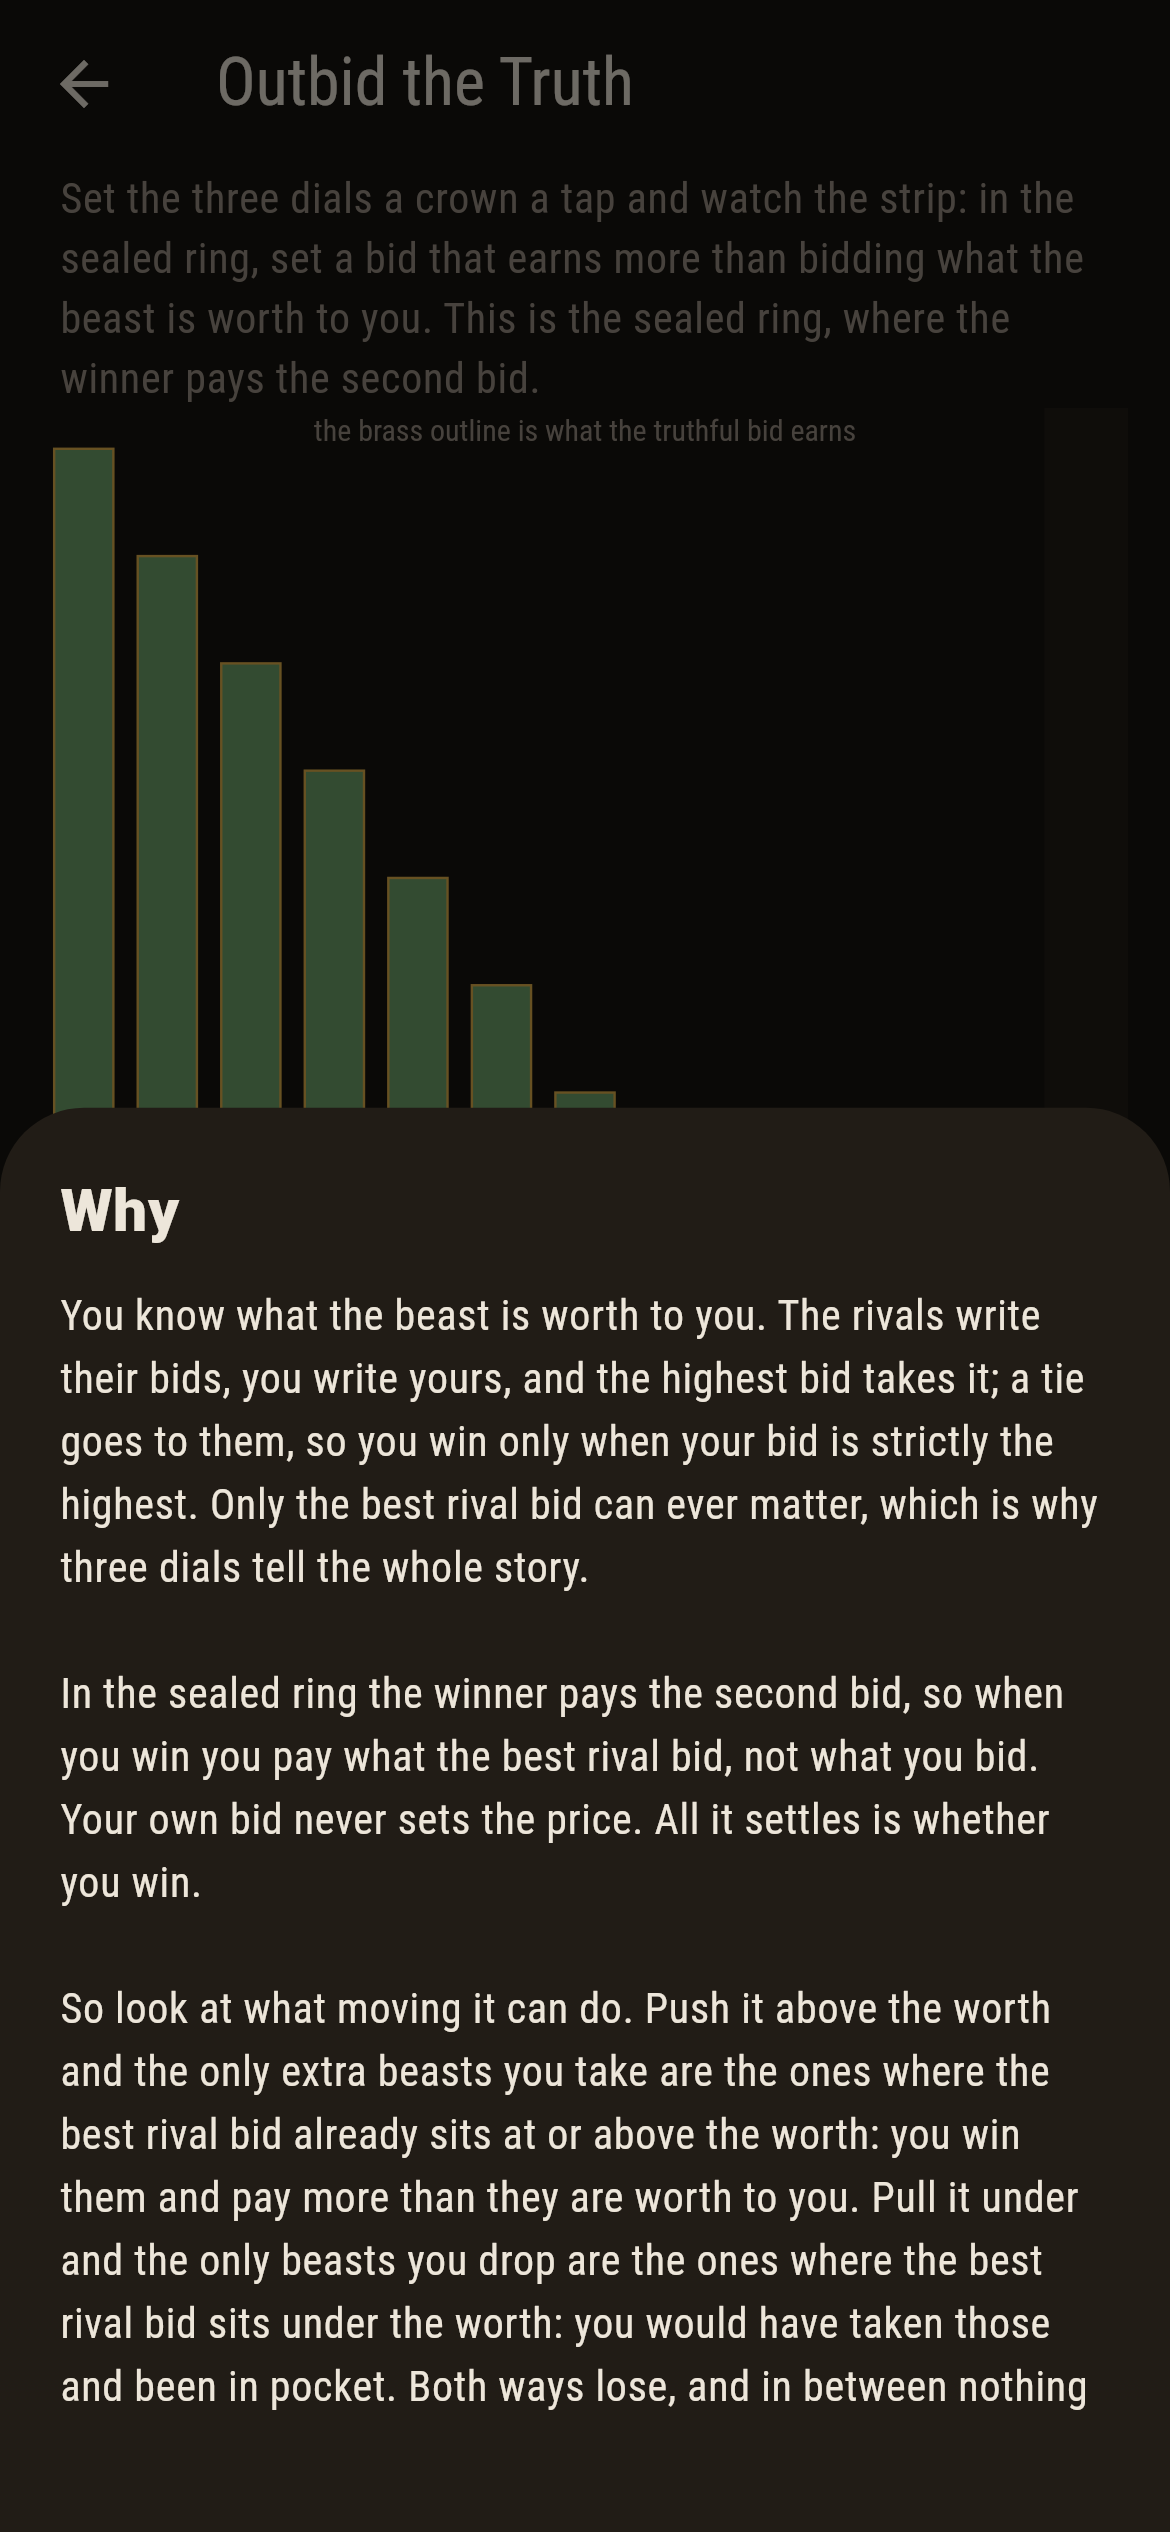
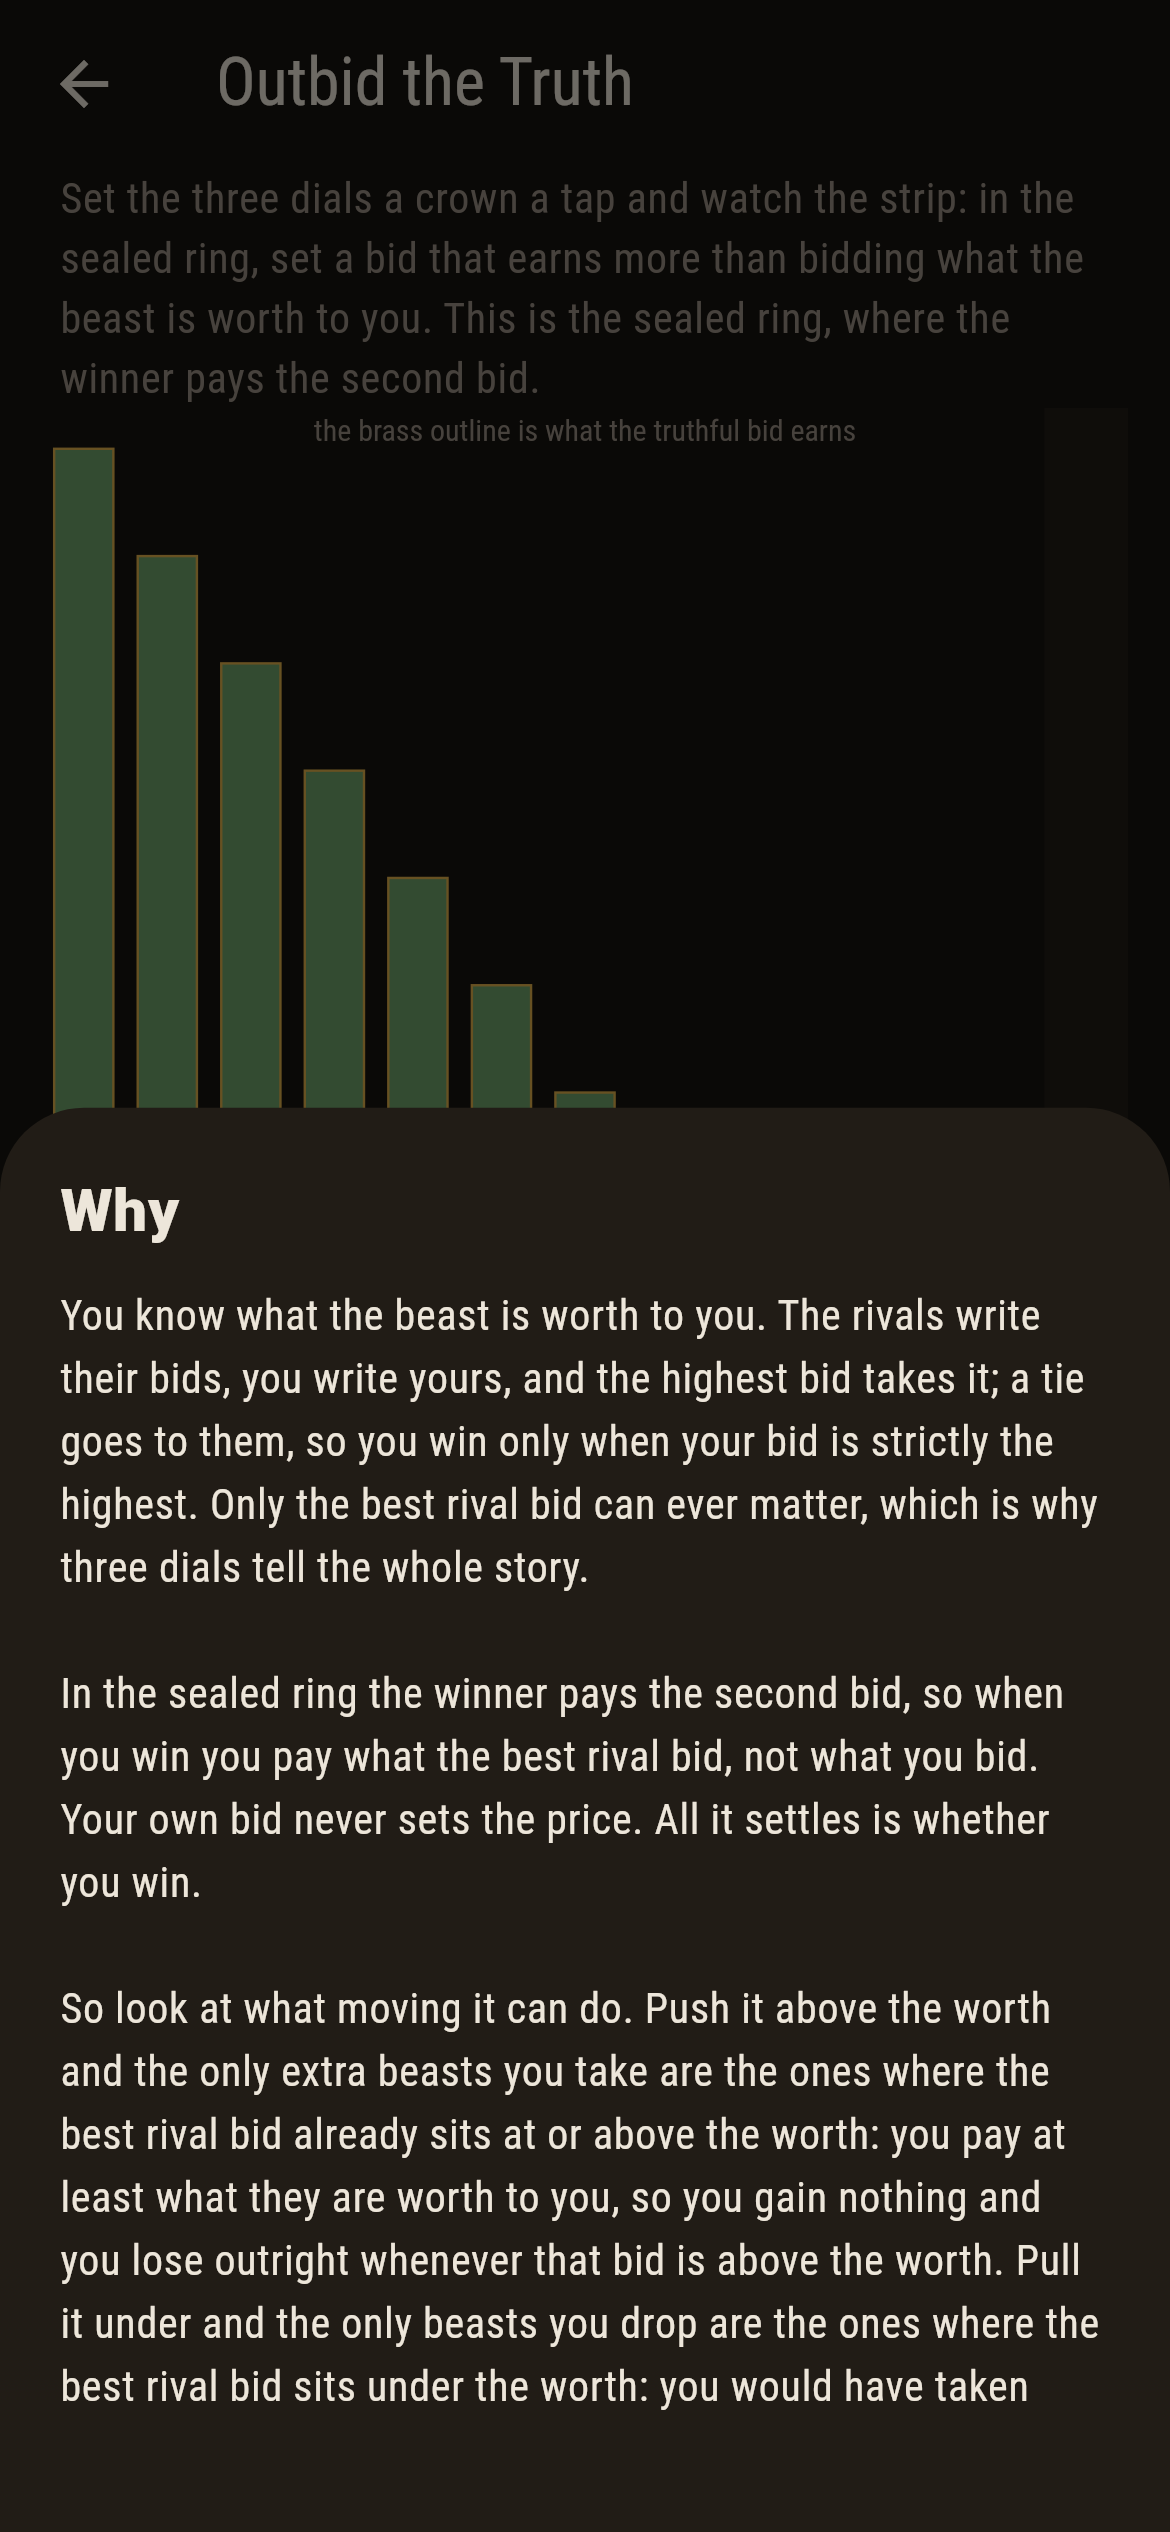
Lotwick: what the checkers found in the prose

Changed region(s): [[0.0615, 0.8424, 0.9231, 0.9672]]

diff --git a/Lotwick/lib/ring/play.dart b/Lotwick/lib/ring/play.dart
@@ -172,11 +172,12 @@ String whyWords(Play play) {
       'the price. All it settles is whether you win.\n\n'
       'So look at what moving it can do. Push it above the worth and the only '
       'extra beasts you take are the ones where the best rival bid already '
-      'sits at or above the worth: you win them and pay more than they are '
-      'worth to you. Pull it under and the only beasts you drop are the ones '
-      'where the best rival bid sits under the worth: you would have taken '
-      'those and been in pocket. Both ways lose, and in between nothing '
-      'changes at all. William Vickrey published this in 1961.\n\n'
+      'sits at or above the worth: you pay at least what they are worth to '
+      'you, so you gain nothing and you lose outright whenever that bid is '
+      'above the worth. Pull it under and the only beasts you drop are the '
+      'ones where the best rival bid sits under the worth: you would have '
+      'taken those and been in pocket. Neither way can gain, and in between '
+      'nothing changes at all. William Vickrey published this in 1961.\n\n'
       'The open ring is the other story. There the winner pays what he bid, '
       'so bidding the worth wins beasts that earn nothing, and shading under '
       'the worth is what pays. That is the ring the sealed one was invented '

diff --git a/Lotwick/lib/ui/result_card.dart b/Lotwick/lib/ui/result_card.dart
@@ -42,10 +42,10 @@ class ResultCard extends StatelessWidget {
       words = 'In the sealed ring your bid never sets the price. It settles '
           'only whether you win, and then you pay what the best rival bid. '
           'Push the bid above the worth and the only beasts it takes are the '
-          'ones already bid at or past their worth, bought at a loss; pull it '
-          'under and the only beasts it drops are the ones you would have '
-          'taken under their worth, a gain thrown away. In between nothing '
-          'changes. Here the bid of ${play.bid} earns '
+          'ones already bid at or past their worth, bought for at least what '
+          'they are worth; pull it under and the only beasts it drops are the '
+          'ones you would have taken under their worth, a gain thrown away. '
+          'In between nothing changes. Here the bid of ${play.bid} earns '
           '${Rules.tellCrowns(play.paid)} against a rival at ${play.rival}, '
           'and the truthful bid of ${play.worth} earns '
           '${Rules.tellCrowns(play.truthPaid)}. Every setting of the three '

diff --git a/Lotwick/lib/ring/levels.dart b/Lotwick/lib/ring/levels.dart
@@ -60,10 +60,11 @@ class Levels {
       note: 'Hopeless, and the card at the end of the ask says so. In the '
           'sealed ring your own bid never sets the price, only whether you '
           'win. Push it above the worth and the only beasts it wins for you '
-          'are ones already bid past their worth, bought at a loss. Pull it '
-          'under and the only beasts it loses you are ones you would have '
-          'taken under their worth, a gain thrown away. Both ways lose, so '
-          'the dial has nowhere better to sit than the worth. All 2,197 '
+          'are ones already bid at or past their worth, bought for at least '
+          'what they are worth. Pull it under and the only beasts it loses '
+          'you are ones you would have taken under their worth, a gain '
+          'thrown away. Neither way can gain, so the dial has nowhere better '
+          'to sit than the worth. All 2,197 '
           'settings of the three dials were run before the sham was built, '
           'and a million more besides.',
     ),

diff --git a/Lotwick/lib/ui/title_screen.dart b/Lotwick/lib/ui/title_screen.dart
@@ -73,7 +73,7 @@ class _TitleScreenState extends State<TitleScreen> {
                       ),
                       subtitle: Text(
                         '${level.task[0].toUpperCase()}${level.task.substring(1)}'
-                        '${fewest == null ? '' : '. Fewest: $fewest'}',
+                        '${!level.winnable ? '. Hopeless.' : fewest == null ? '' : '. Fewest: $fewest'}',
                         style: const TextStyle(
                             color: Palette.inkDim, fontSize: 13),
                       ),

diff --git a/Lotwick/README.md b/Lotwick/README.md
@@ -35,12 +35,13 @@ whether you win, and when you win you pay what the best rival bid.
 
 So there are only two things moving the bid can do. Push it above the
 worth and the extra beasts it takes are exactly the ones where the best
-rival bid already sits at or above the worth: you win them and pay more
-than they are worth to you. Pull it under the worth and the beasts it
+rival bid already sits at or above the worth: you pay at least what
+they are worth to you, so you gain nothing, and you lose whenever that
+rival bid is above the worth. Pull it under the worth and the beasts it
 drops are exactly the ones where the best rival bid sits under the
 worth: those you would have taken and been in pocket. Everywhere else
-nothing changes. Both directions lose, so the dial has nowhere better
-to sit than the worth. William Vickrey published this in 1961.
+nothing changes. Neither direction can gain, so the dial has nowhere
+better to sit than the worth. William Vickrey published this in 1961.
 
 The open ring is the other story, and the reason the sealed one was
 invented. There the winner pays what he bid, so the truthful bid buys
@@ -63,7 +64,10 @@ everything at least twice:
   neither of them ever positive.
 
 The two are set against each other on a million settings, a hundred
-crowns on each of the three dials, in both rings.
+crowns on each of the three dials. The window is the sealed ring's
+argument, so that is where the two are compared; the open ring is held
+to its own arithmetic, that a shaded bid beats the truthful one exactly
+when it wins.
 
 `tool/check_ring.dart` runs the lot and refuses the bake on any
 disagreement.
@@ -96,7 +100,8 @@ every setting of the three dials taken at a hundred crowns a dial, what the beas
 Screenshots are drawn by `test/showcase_test.dart` at real phone sizes
 with the app's own painter, then copied into `docs/` as they came out;
 every dial in them was set by taps, so nothing pictured is a setting
-the game could not reach. The logo and every launcher icon come out of
+the game could not reach. The strip across the top of the sham shot is
+the mark rather than a run of taps. The logo and every launcher icon come out of
 `test/mark_test.dart` the same way: the mark is a beast worth eight
 crowns with a bid of twelve, so the strip climbs while the rivals bid
 low and drops below the line the moment they bid past what the beast
